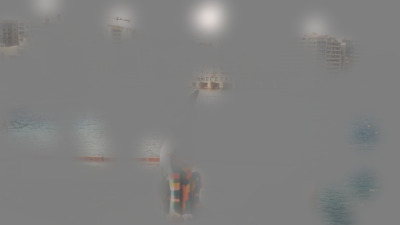
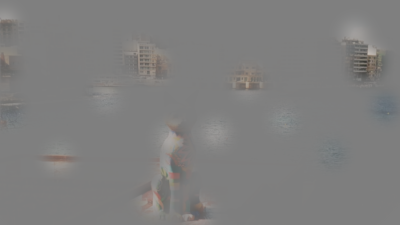
update examples

diff --git a/examples.py b/examples.py
@@ -4,7 +4,7 @@ from PIL import Image
 import os.path as op
 import numpy as np
 import matplotlib.pyplot as plt
-from bubblemask import mask
+from src.bubblemask import mask
 
 np.random.seed(152872)
 
@@ -60,32 +60,31 @@ plt.imshow(mask3a-mask3b)
 plt.colorbar()
 fig.savefig(op.join(out_dir, 'face3_mask_diff.png'), dpi=80, bbox_inches='tight')
 
-# %% Example 3 - letter a
+# %% Example 3 - letter a on the cat image
 
-a = Image.open(op.join(in_dir, 'a.png'))
+a_cat = Image.open(op.join(in_dir, 'a_cat.png'))
+a_cat_ref = Image.open(op.join('img', 'pre', 'a_cat_ref.png'))
 
-a1, maska1, mu_x, mu_y, sigma = mask.bubbles_mask_nonzero(im=a, sigma=[10,10,10,10], bg=127, max_sigma_from_nonzero=2)
+a_cat1, maskacat1, mu_x, mu_y, sigma = mask.bubbles_mask_nonzero(im=a_cat, ref_im=a_cat_ref, sigma=[10,10,10,10,10], max_sigma_from_nonzero=1, ref_bg=[0,0,0,255], bg=[0,0,0,255])
 
-a1.save(op.join(out_dir, 'a1.png'))
+a_cat1.save(op.join(out_dir, 'a_cat1.png'))
 
 # demonstrate that the space is unused
-a2, maska2, mu_x, mu_y, sigma = mask.bubbles_mask_nonzero(im=a, sigma=np.repeat(3, repeats=1000), bg=127, max_sigma_from_nonzero=1)
+a_cat2, maskacat2, mu_x, mu_y, sigma = mask.bubbles_mask_nonzero(im=a_cat, ref_im=a_cat_ref, sigma=np.repeat(2.5, repeats=1000), max_sigma_from_nonzero=5, ref_bg=[0,0,0,255], bg=[0,0,0,255])
 
-a2.save(op.join(out_dir, 'a2.png'))
+a_cat2.save(op.join(out_dir, 'a_cat2.png'))
 
-
-a_arr = np.asarray(a).copy()
-a_arr[a_arr==127] = 0
-a_arr[:,:,1] = 0
-a_arr[:,:,2] = maska2 * 255
-Image.fromarray(a_arr).save(op.join(out_dir, 'a2_locs.png'))
+fig = plt.figure(figsize=(6, 2.75))
+plt.imshow(maskacat2)
+plt.colorbar()
+fig.savefig(op.join(out_dir, 'a_cat2_mask.png'), dpi=80, bbox_inches='tight')
 
 # %% Example 4 - cat
 
 cat = Image.open(op.join(in_dir, 'cat.png'))
 cat1 = mask.bubbles_mask(im=cat, sigma=np.repeat(10, 20), bg=127)[0]
-cat2 = mask.bubbles_mask(im=cat, sigma=np.repeat(10, 20), bg=0)[0]
-cat3 = mask.bubbles_mask(im=cat, sigma=np.repeat(10, 20), bg=[127, 0, 127])[0]
+cat2 = mask.bubbles_mask(im=cat, sigma=np.repeat(10, 20), bg=[127, 0, 127])[0]
+cat3 = mask.bubbles_mask(im=cat.convert('RGBA'), sigma=np.repeat(10, 20), bg=[0, 0, 0, 0])[0]
 
 cat1.save(op.join(out_dir, 'cat1.png'))
 cat2.save(op.join(out_dir, 'cat2.png'))

diff --git a/README.md b/README.md
@@ -130,55 +130,16 @@ plt.colorbar()
 
 This means that with reasonable rounding of the masks, the approaches would be functionally equivalent, except that the method using the outer product of densities is (i) more precise in specifying mu, and (ii) supports bubbles of different sizes.
 
-## Avoiding Uninformative Locations
-
-It is often more efficient to avoid adding bubbles to regions that you know have no informative information, such as the background. `bubbles_mask_nonzero()` uses a binary dilation method ([`skimage.morphology.binary_dilation`](https://scikit-image.org/docs/stable/api/skimage.morphology.html#skimage.morphology.binary_dilation)) to exclude regions of the background which are sufficiently distant as to be uninformative.
-
-Specifically, the centres of each bubble (`mu_x`, `mu_y`) will be within `max_sigma_from_nonzero` multiples of that bubble's `sigma` value from a non-background pixel. Background pixels are identified as `im <= bg`.
-
-The usage is similar to `bubbles_mask()`, but with additional argument `max_sigma_from_nonzero`. Here, we use 4 bubbles and specify that the centre of each bubble should be no more than 2 standard deviations away from the non-background pixels of the letter *a*.
-
-```python
-a = Image.open(op.join('img', 'pre', 'a.png'))
-
-a1 = mask.bubbles_mask_nonzero(
-    im=a, sigma=[10,10,10,10], bg=127, max_sigma_from_nonzero=2
-)[0]
-
-a.show(); a1.show()
-```
-
-![](img/pre/a.png)
-![](img/post/a1.png)
-
-Here is a snippet demonstrating that `bubbles_mask_nonzero()` only selects bubble locations whose centres are <=`max_sigma_from_nonzero` standard deviations of the non-background pixels. This shows 1000 bubbles (in blue) superimposed on the letter *a* (in red), with bubbles' centres at a maximum distance of 1 standard deviations from the character.
-
-```python
-a2, maska2, mu_x, mu_y, sigma = mask.bubbles_mask_nonzero(
-    im=a, sigma=np.repeat(3, repeats=1000), bg=127, max_sigma_from_nonzero=1
-)
-
-a_arr = np.asarray(a).copy()
-a_arr[a_arr==127] = 0
-a_arr[:,:,1] = 0
-a_arr[:,:,2] = maska2 * 255
-Image.fromarray(a_arr).show()
-```
-
-![](img/post/a2_locs.png)
-
-Note: you can also specify a reference image, `ref_im`, from which the background pixels in `im` should be identified. This is useful in cases where `im` has already been altered (e.g., phase-randomised).
-
 ## Naturalistic Images
 
-Typical stimuli using the Bubbles technique use artificial stimuli on grey backgrounds, but this method can also be applied to more naturalistic, colour stimuli, with the background defined by the `bg` argument.
+Examples above use artificial stimuli on grey backgrounds, but this method can also be applied to more naturalistic, colour stimuli, with the background defined by the `bg` argument.
 
 ```python
 cat = Image.open(op.join('img', 'pre', 'cat.jpg'))
 
-cat1 = mask.bubbles_mask(im=cat, sigma=np.repeat(10, 20), bg=127)[0]
-cat2 = mask.bubbles_mask(im=cat, sigma=np.repeat(10, 20), bg=0)[0]
-cat3 = mask.bubbles_mask(im=cat, sigma=np.repeat(10, 20), bg=[127, 0, 55])[0]
+cat1 = mask.bubbles_mask(im=cat, sigma=np.repeat(10, 20), bg=127)[0]  # grey background
+cat2 = mask.bubbles_mask(im=cat, sigma=np.repeat(10, 20), bg=[127, 0, 127])[0]  # magenta background
+cat3 = mask.bubbles_mask(im=cat.convert('RGBA'), sigma=np.repeat(10, 20), bg=[0, 0, 0, 0])[0]  # transparent background
 
 cat.show(); cat1.show(); cat2.show(); cat3.show()
 ```
@@ -187,6 +148,57 @@ cat.show(); cat1.show(); cat2.show(); cat3.show()
 ![](img/post/cat1.png)
 ![](img/post/cat2.png)
 ![](img/post/cat3.png)
+![](img/post/cat4.png)
+
+## Avoiding Uninformative Locations
+
+It is often more efficient to avoid adding bubbles to regions that you know have no informative information, such as the background. `bubbles_mask_nonzero()` can exclude regions of the background which are sufficiently distant as to be uninformative.
+
+Specifically, the centres of each bubble (`mu_x`, `mu_y`) will be within `max_sigma_from_nonzero` multiples of that bubble's `sigma` value from a non-background pixel in a reference image. Background pixels are identified as `im <= bg`.
+
+The usage is similar to `bubbles_mask()`, but with additional arguments `ref_im` (reference image) and `max_sigma_from_nonzero`. Imagine we are only interested in the letter *a* in this image:
+
+```python
+a_cat = Image.open(op.join('img', 'pre', 'a_cat.png'))
+a_cat.show()
+```
+
+![](img/pre/a_cat.png)
+
+First, we need a reference image, where the target region has values of 1, and the uninformative regions have values of 0. If there is an alpha channel, this should also have a value of 0 for the uninformative regions.
+
+```python
+a_cat_ref = Image.open(op.join('img', 'pre', 'a_cat_ref.png'))
+a_cat_ref.show()
+```
+
+![](img/pre/a_cat_ref.png)
+
+Now we can apply bubbles to the original image, targeting the letter *a*. Here, we apply 5 bubbles and specify that the centre of each bubble should be no more than 1 standard deviation away from the non-background pixels of the letter *a*. Also note that we give `ref_bg` as `[0,0,0,255]`, because we do not have a transparent alpha in the reference image.
+
+```python
+a_cat1 = mask.bubbles_mask_nonzero(
+    im=a_cat, ref_im=a_cat_ref, sigma=[10,10,10,10,10], ref_bg=[0,0,0,255], bg=[0,0,0,255], max_sigma_from_nonzero=1
+)[0]
+
+a_cat1.show()
+```
+
+![](img/post/a_cat1.png)
+
+Here is a snippet showing that `bubbles_mask_nonzero()` only selects bubble locations whose centres are <=`max_sigma_from_nonzero` standard deviations of the non-background pixels. Here we apply 1000 bubbles (in blue) superimposed on the letter *a*, with bubbles' centres at a maximum distance of 1 standard deviations from the character.
+
+```python
+a_cat2, maskacat2, mu_x, mu_y, sigma = mask.bubbles_mask_nonzero(
+    im=a_cat, ref_im=a_cat_ref, sigma=np.repeat(3, repeats=1000), ref_bg=[0,0,0,255], bg=[0,0,0,255], max_sigma_from_nonzero=1
+)
+
+a_cat2.show()
+plt.imshow(maskacat2); plt.colorbar()
+```
+
+![](img/post/a_cat2.png)
+![](img/post/a_cat2_mask.png)
 
 ## Bubble Merging Method
 
